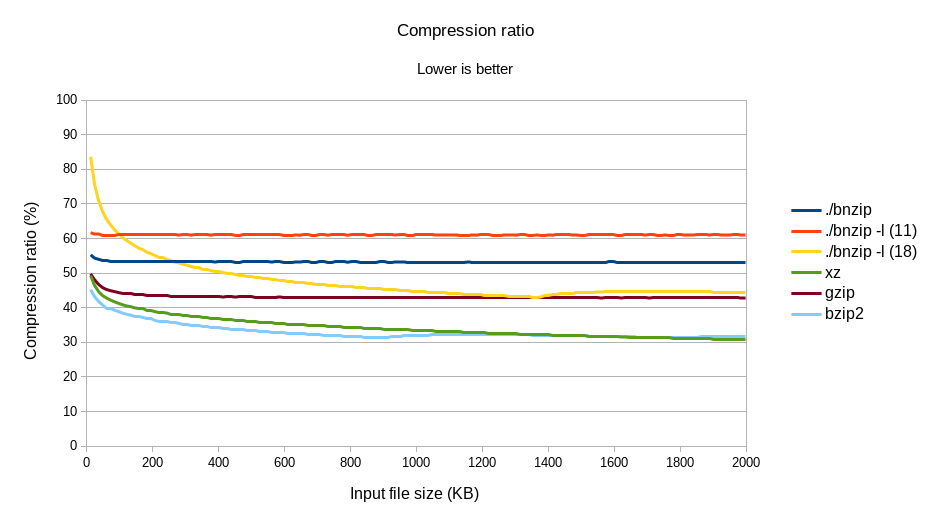
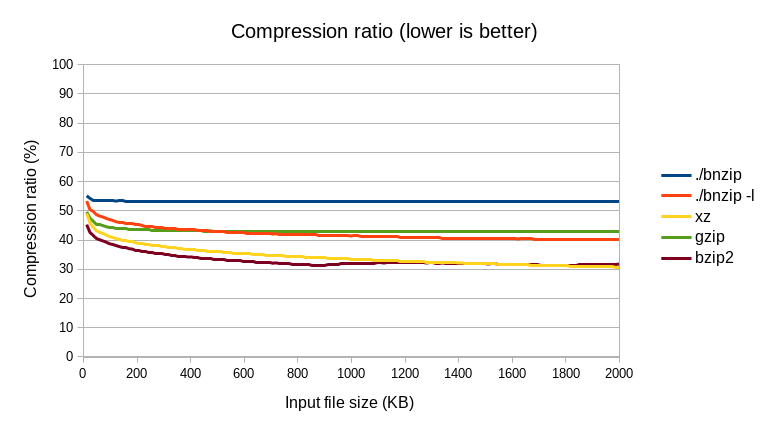
Improve LZW significantly

diff --git a/src/lzw/lzw-coding.cpp b/src/lzw/lzw-coding.cpp
@@ -2,7 +2,7 @@
  * @file lzw-coding.cpp
  * @author Juho Röyskö
  * @brief LZW Coding
- * @version 0.2.1
+ * @version 0.3.0
  * @date 2021-10-02
  */
 #include <string>
@@ -10,40 +10,6 @@
 #include <vector>
 #include "../constants.hpp"
 #include "../file-manager.hpp"
-
-const int CODE_MAX = (1 << LZW_CODE_SIZE) - 1;
-
-/**
- * @brief Initialize codebook that uses a map
- *
- * @param mp Map to initialize
- */
-void InitCodebook(std::unordered_map<std::string, int> &mp)
-{
-    mp.clear();
-    for (int i = 0; i < 256; ++i)
-    {
-        std::string chr = "";
-        chr += (char)i;
-        mp[chr] = i;
-    }
-}
-
-/**
- * @brief Initialize codebook that uses a vector
- *
- * @param mp Vector to initialize
- */
-void InitCodebook(std::vector<std::string> &codebook)
-{
-    codebook.clear();
-    for (int i = 0; i < 256; ++i)
-    {
-        std::string chr = "";
-        chr += (char)i;
-        codebook.push_back(chr);
-    }
-}
 
 /**
  * @brief Encode data with LZW coding
@@ -54,7 +20,12 @@ void InitCodebook(std::vector<std::string> &codebook)
 std::vector<int> LZWEncode(std::string const &data)
 {
     std::unordered_map<std::string, int> codebook;
-    InitCodebook(codebook);
+    for (int i = 0; i < 256; ++i)
+    {
+        std::string chr = "";
+        chr += (char)i;
+        codebook[chr] = i;
+    }
 
     int current_code = 256;
     std::vector<int> output;
@@ -69,13 +40,6 @@ std::vector<int> LZWEncode(std::string const &data)
             codebook[new_string] = current_code;
             ++current_code;
             new_string = c;
-
-            if (current_code == CODE_MAX)
-            {
-                current_code = 256;
-                output.push_back(CODE_MAX);
-                InitCodebook(codebook);
-            }
         }
         old_string = new_string;
     }
@@ -94,7 +58,12 @@ std::vector<int> LZWEncode(std::string const &data)
 std::string LZWDecode(std::vector<int> const &codes)
 {
     std::vector<std::string> codebook; // Vector is used instead of a unordered_map<int, string>
-    InitCodebook(codebook);
+    for (int i = 0; i < 256; ++i)
+    {
+        std::string chr = "";
+        chr += (char)i;
+        codebook.push_back(chr);
+    }
 
     std::string output = "";
 
@@ -102,13 +71,6 @@ std::string LZWDecode(std::vector<int> const &codes)
     for (int i = 0; i < (int)codes.size(); ++i)
     {
         int code = codes[i];
-        if (code == CODE_MAX)
-        {
-            current_code = 256;
-            InitCodebook(codebook);
-            continue;
-        }
-
         if (i == (int)codes.size() - 1)
         {
             output += codebook[code];

diff --git a/src/lzw/lzw-runner.cpp b/src/lzw/lzw-runner.cpp
@@ -2,7 +2,7 @@
  * @file lzw-runner.cpp
  * @author Juho Röyskö
  * @brief Runs LZW coding
- * @version 0.1.2
+ * @version 0.2.0
  * @date 2021-10-02
  */
 #include <string>
@@ -40,13 +40,21 @@ void LZWCompress(std::string const &input_file, bool verbose = 0)
     file_writer.Write(1); // Tell decompressor that this file is compressed with LZW coding
 
     if (verbose)
+    {
         std::cout << "Writing compressed data to file '" << output_file << "'" << std::endl;
+    }
+    int code_bits = 1;
     for (int x : encoded_data)
     {
-        file_writer.Write(x, LZW_CODE_SIZE);
+        while (x >= (1 << code_bits) - 1)
+        {
+            file_writer.Write((1 << code_bits) - 1, code_bits);
+            ++code_bits;
+        }
+        file_writer.Write(x, code_bits);
     }
 
-    file_writer.Pad("00000000");
+    file_writer.Pad("11111111");
     file_writer.Close();
 }
 
@@ -73,6 +81,7 @@ void LZWDecompress(std::string const &input_file, bool verbose = 0)
     std::vector<int> codes;
     int current_byte = 0;
     int bit_count = 0;
+    int code_bits = 1;
     for (char c : data)
     {
         for (int i = 7; i >= 0; --i)
@@ -80,9 +89,12 @@ void LZWDecompress(std::string const &input_file, bool verbose = 0)
             int bit = (c & (1 << i)) > 0;
             current_byte = current_byte << 1 | bit;
             ++bit_count;
-            if (bit_count == LZW_CODE_SIZE)
+            if (bit_count == code_bits)
             {
-                codes.push_back(current_byte);
+                if (current_byte >= (1 << code_bits) - 1)
+                    ++code_bits;
+                else
+                    codes.push_back(current_byte);
                 current_byte = 0;
                 bit_count = 0;
             }

diff --git a/src/constants.hpp b/src/constants.hpp
@@ -2,8 +2,7 @@
  * @file constants.hpp
  * @author Juho Röyskö
  * @brief Contains some constants that multiple files use
- * @version 0.1
+ * @version 0.2
  * @date 2021-10-02
  */
-const int LZW_CODE_SIZE = 11;  // LZW code size in bits
 const int ALPHABET_SIZE = 256; // Alphabet size used in the huffman coding

diff --git a/documentation/Implementation-document.md b/documentation/Implementation-document.md
@@ -124,13 +124,45 @@ After decoding the data it is written to the output file.
 #### Compressing
 A high level view of the encoding algorithm:
 1. Initialize the dictionary to contain all strings of length one
-2. Read bytes from the input into string S untill S isn't in the dictionary
-3. Go back one byte and remove the byte from S
-5. Add the dictionary index for S to output
-6. Add S followed by the next symbol in the input to the dictionary
-7. Go to step 2
+3. Read bytes from the input into string S until S isn't in the dictionary
+4. Go back one byte and remove the byte from S
+6. Add the dictionary index for S to output
+7. Add S followed by the next symbol in the input to the dictionary
+8. Go to step 2
+
+The amount of bits used for each code is one in the beginning and gets larger as codes require more bits.  
+To do this, while the bit-length of the code is greater than code_bits, we write 111...111 to the file, where there are code_bits bits, where code_bits is the current code length in bits.
+
+Pseudocode for writing the codes to the file:
+```
+code_bits = 1
+for code in encoded_data:
+    while code >= (1 << code_bits) - 1:
+        file.write((1 << code_bits) - 1)
+        ++code_bits
+    file.write(code)
+```
 
 #### Decompressing
+When reading the codes from the file, we need to be able to figure out where the number of bits used for the codes changes.
+Pseudocode for reading the bits from the file:
+```
+codes = []
+code_bits = 1
+cur_byte = 0
+bit_count = 0
+for bit in compressed_data:
+    cur_byte = (cur_byte << 1) | bit
+    ++bit_count
+    if bit_count == code_bits:
+        if cur_byte >= (1 << code_bits) - 1:
+            ++code_bits
+        else:
+            codes.append(cur_byte)
+        cur_byte = 0
+        bit_count = 0
+```
+
 A high level view of the decoding algorithm:
 1. Initialize the dictionary to contain all strings of length one
 2. Decode value and add decoded value to output
@@ -148,11 +180,12 @@ A = Alphabet size used in the Huffman coding
 | LZW decompression     | O(n)            | O(n)              |
 
 ### Comparison
-Tested with files containing random finnish words seperated with spaces. In `./bnzip -l (x)`, x means the value of LZW_CODE_SIZE.  
-![Compression][Compression]
-![Compression ratio][Compression ratio]  
-The `./bnzip -l (18)` jumps up in the compression rate, because its dictionary filled up and it needed to create a new one.
-![Compression time][Time]
+In the tests, the compression algorithms were tested with files containing random Finnish words separated with spaces.  
+`./bnzip` uses Huffman coding and `./bnzip -l` uses LZW coding.  
+![Graph comparing compression between different algorithms][Compression]
+![Graph comparing compression ratios between different algorithms][Compression ratio]  
+![Graph comparing compression times between different algorithms][Compression time]
+![Graph comparing decompression times between different algorithms][Decompression time]
 
 ### Project structure
 ```
@@ -203,8 +236,8 @@ The `./bnzip -l (18)` jumps up in the compression rate, because its dictionary f
 ```
 
 ### Possible improvements
-* Variable-width codes in LZW coding
 * Progress indicator
+* Deleting the original file
 
 ### Sources
 * [Huffman coding (wikipedia.org)](https://en.wikipedia.org/wiki/Huffman_coding)
@@ -220,4 +253,5 @@ The `./bnzip -l (18)` jumps up in the compression rate, because its dictionary f
 [Huffman example]: https://upload.wikimedia.org/wikipedia/commons/d/d8/HuffmanCodeAlg.png
 [Compression]: ./images/compression.png
 [Compression ratio]: ./images/compression-ratio.png
-[Time]: ./images/time.png
+[Compression time]: ./images/compression-time.png
+[Decompression time]: ./images/decompression-time.png
